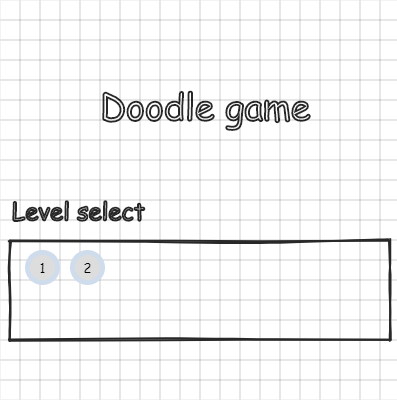
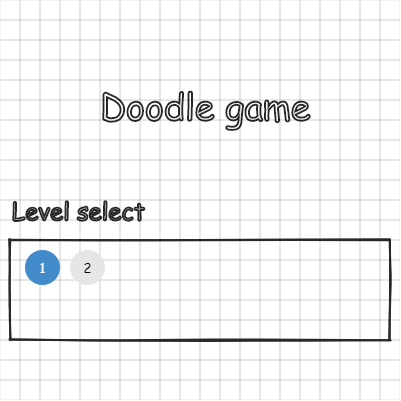
- added saving user progress in cookies and other improvements

diff --git a/assets/js/js.cookie.js b/assets/js/js.cookie.js
@@ -1,0 +1,163 @@
+/*!
+ * JavaScript Cookie v2.2.1
+ * https://github.com/js-cookie/js-cookie
+ *
+ * Copyright 2006, 2015 Klaus Hartl & Fagner Brack
+ * Released under the MIT license
+ */
+;(function (factory) {
+	var registeredInModuleLoader;
+	if (typeof define === 'function' && define.amd) {
+		define(factory);
+		registeredInModuleLoader = true;
+	}
+	if (typeof exports === 'object') {
+		module.exports = factory();
+		registeredInModuleLoader = true;
+	}
+	if (!registeredInModuleLoader) {
+		var OldCookies = window.Cookies;
+		var api = window.Cookies = factory();
+		api.noConflict = function () {
+			window.Cookies = OldCookies;
+			return api;
+		};
+	}
+}(function () {
+	function extend () {
+		var i = 0;
+		var result = {};
+		for (; i < arguments.length; i++) {
+			var attributes = arguments[ i ];
+			for (var key in attributes) {
+				result[key] = attributes[key];
+			}
+		}
+		return result;
+	}
+
+	function decode (s) {
+		return s.replace(/(%[0-9A-Z]{2})+/g, decodeURIComponent);
+	}
+
+	function init (converter) {
+		function api() {}
+
+		function set (key, value, attributes) {
+			if (typeof document === 'undefined') {
+				return;
+			}
+
+			attributes = extend({
+				path: '/'
+			}, api.defaults, attributes);
+
+			if (typeof attributes.expires === 'number') {
+				attributes.expires = new Date(new Date() * 1 + attributes.expires * 864e+5);
+			}
+
+			// We're using "expires" because "max-age" is not supported by IE
+			attributes.expires = attributes.expires ? attributes.expires.toUTCString() : '';
+
+			try {
+				var result = JSON.stringify(value);
+				if (/^[\{\[]/.test(result)) {
+					value = result;
+				}
+			} catch (e) {}
+
+			value = converter.write ?
+				converter.write(value, key) :
+				encodeURIComponent(String(value))
+					.replace(/%(23|24|26|2B|3A|3C|3E|3D|2F|3F|40|5B|5D|5E|60|7B|7D|7C)/g, decodeURIComponent);
+
+			key = encodeURIComponent(String(key))
+				.replace(/%(23|24|26|2B|5E|60|7C)/g, decodeURIComponent)
+				.replace(/[\(\)]/g, escape);
+
+			var stringifiedAttributes = '';
+			for (var attributeName in attributes) {
+				if (!attributes[attributeName]) {
+					continue;
+				}
+				stringifiedAttributes += '; ' + attributeName;
+				if (attributes[attributeName] === true) {
+					continue;
+				}
+
+				// Considers RFC 6265 section 5.2:
+				// ...
+				// 3.  If the remaining unparsed-attributes contains a %x3B (";")
+				//     character:
+				// Consume the characters of the unparsed-attributes up to,
+				// not including, the first %x3B (";") character.
+				// ...
+				stringifiedAttributes += '=' + attributes[attributeName].split(';')[0];
+			}
+
+			return (document.cookie = key + '=' + value + stringifiedAttributes);
+		}
+
+		function get (key, json) {
+			if (typeof document === 'undefined') {
+				return;
+			}
+
+			var jar = {};
+			// To prevent the for loop in the first place assign an empty array
+			// in case there are no cookies at all.
+			var cookies = document.cookie ? document.cookie.split('; ') : [];
+			var i = 0;
+
+			for (; i < cookies.length; i++) {
+				var parts = cookies[i].split('=');
+				var cookie = parts.slice(1).join('=');
+
+				if (!json && cookie.charAt(0) === '"') {
+					cookie = cookie.slice(1, -1);
+				}
+
+				try {
+					var name = decode(parts[0]);
+					cookie = (converter.read || converter)(cookie, name) ||
+						decode(cookie);
+
+					if (json) {
+						try {
+							cookie = JSON.parse(cookie);
+						} catch (e) {}
+					}
+
+					jar[name] = cookie;
+
+					if (key === name) {
+						break;
+					}
+				} catch (e) {}
+			}
+
+			return key ? jar[key] : jar;
+		}
+
+		api.set = set;
+		api.get = function (key) {
+			return get(key, false /* read as raw */);
+		};
+		api.getJSON = function (key) {
+			return get(key, true /* read as json */);
+		};
+		api.remove = function (key, attributes) {
+			set(key, '', extend(attributes, {
+				expires: -1
+			}));
+		};
+
+		api.defaults = {};
+
+		api.withConverter = init;
+
+		return api;
+	}
+
+	return init(function () {});
+}));

diff --git a/sketch.js b/sketch.js
@@ -3,23 +3,28 @@ var scribble = [];
 var gap = 6;
 var angleScribble = 315;
 
-
 const level = (p) => {
   p5.disableFriendlyErrors = true;
   let game = [];
 
   p.setup = function() {
-    p.createCanvas(400, 400);
+    p.createCanvas(400, 450);
 
     goBackButton = p.createButton('Go back');
-    goBackButton.position(p.width, p.height + 20);
+    goBackButton.position(0, p.height - 40);
     goBackButton.mousePressed(p.goBack);
     goBackButton.class('go-back-btn');
 
     tryAgainButton = p.createButton('Try again');
     tryAgainButton.class('try-again-btn');
-    tryAgainButton.position(p.width -100, p.height + 20);
+    tryAgainButton.position(p.width - 200, p.height - 40);
     tryAgainButton.mousePressed(p.resetLevel);
+    
+    nextLevelButton = p.createButton('Next level');
+    nextLevelButton.position(p.width - 100, p.height - 40);
+    nextLevelButton.attribute('disabled', '');
+    nextLevelButton.class('go-back-btn');
+    nextLevelButton.mousePressed(p.loadNextLevel);
 
     game = new Game(activeLevel, this);
     scribble = new Scribble(this);
@@ -36,6 +41,13 @@ const level = (p) => {
   p.resetLevel = function() {
     game.reset();
   }
+  
+  p.loadNextLevel = function() {
+     activeLevel++;
+
+     p.remove();
+     new p5(level); 
+  }
 
   p.draw = function() {
     p.background(255);
@@ -45,7 +57,7 @@ const level = (p) => {
 }
 
 const welcomeScreen = (p) => {
-
+  let cookies = Cookies.get();  
   let img = [];
 
   p.setup = function() {
@@ -57,16 +69,19 @@ const welcomeScreen = (p) => {
     Level1Button.class('btn-circle');
 
     Level2Button = p.createButton('2');
+    Level2Button.attribute('disabled', '');
     Level2Button.position(70, p.height / 2 + 50);
-    Level2Button.mousePressed(p.startLevel2);
     Level2Button.class('btn-circle');
-
-    //img = p.loadImage('assets/img/html5_game.png');
+    
+    if (cookies.level_2) {
+          Level2Button.removeAttribute('disabled');
+          Level2Button.mousePressed(p.startLevel2);
+    }
 
     scribble = new Scribble(this);
     scribble.numEllipseSteps = 2;
-    scribble.bowing = 0.3;
-    scribble.roughness = 1;
+    scribble.bowing = 0.1;
+    scribble.roughness = 0.5;
   }
 
   p.drawCheckBoard = function() {

diff --git a/GameBoard.js b/GameBoard.js
@@ -17,8 +17,22 @@ class GameBoard {
     this.endingBox = this.levelObj.initEndingBox();
     this.walls = this.levelObj.initWalls();
   }
+  
+  drawBackground () {
+    this.obj.push();
+    this.obj.noFill();
+    this.obj.strokeWeight(1);
+    this.obj.stroke(0, 25);
+    for (let i = 0; i < 20; i++) {
+      for (let j = 0; j < 20; j++) {
+        this.obj.rect(i * 20, j * 20, 20, 20);
+      }
+    }
+    this.obj.pop();
+  }
 
   show() {
+    this.drawBackground();
     this.startingBox.show();
     this.endingBox.show();
 

diff --git a/EndingBox.js b/EndingBox.js
@@ -10,10 +10,7 @@ class EndingBox{
   
   show(){
     this.obj.push();
-    //this.obj.noStroke();
-    //this.obj.fill(this.color);
-    //this.obj.rect(this.x, this.y, this.w, this.h);
-    
+   
     this.obj.stroke(149, 254, 124);
     scribble.scribbleFilling( [this.x+80, this.x+5, this.x+5, this.x+80], [this.y+130, this.y+130, this.y-5, this.y-5], gap, angleScribble);
     scribble.scribbleRect( this.x+40, this.y+65, this.w+10, this.h );

diff --git a/assets/css/style.css b/assets/css/style.css
@@ -8,8 +8,19 @@ canvas {
 .btn-circle {
  width:  35px;
  height: 35px;
- border:5px solid #cfdcec;
+ border:5px solid #428bca;
  border-radius: 50%;
+ background-color: #428bca;
+ color:white;
+ font-family: 'Comic Sans MS'
+}
+.btn-circle:disabled {
+ width:  35px;
+ height: 35px;
+ border:5px solid #e6e6e6;
+ border-radius: 50%;
+ background-color: #e6e6e6;
+ color:black;
  font-family: 'Comic Sans MS'
 }
 .try-again-btn {

diff --git a/Game.js b/Game.js
@@ -55,6 +55,10 @@ class Game {
     if (this.obj.collideRectRect(this.hero.x, this.hero.y, this.hero.diameter, this.hero.diameter, endingBox.x, endingBox.y, endingBox.w, endingBox.h)) {
       this.obj.noLoop();
       this.scoreElem.html('Level completed!');
+      
+      nextLevelButton.removeAttribute('disabled');
+
+      Cookies.set('level_'+(activeLevel+1), 'true', { expires: 365 });
     }
   }
 

diff --git a/index.html b/index.html
@@ -3,6 +3,7 @@
   <script src="assets/js/p5.dom.min.js"></script>
   <script src="assets/js/p5.collide2d.min.js"></script>
   <script src="assets/js/p5.scribble.js"></script>
+  <script src="assets/js/js.cookie.js"></script>
   <script src="levels.js"></script>
   <script src="Game.js"></script>
   <script src="Hero.js"></script>

diff --git a/levels.js b/levels.js
@@ -213,7 +213,7 @@ let wallCoordinatesLevel1 = [{
 ];
 
 wallsMap[1] = wallCoordinatesLevel1;
-wallsMap[2] = [];
+wallsMap[2] = wallCoordinatesLevel1;
 
 let centerBoxLevel1 = [{
     rows: 6,
